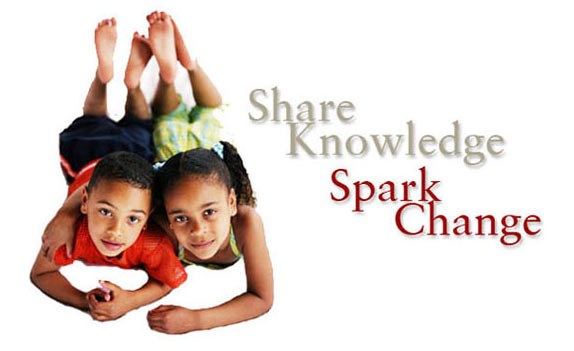
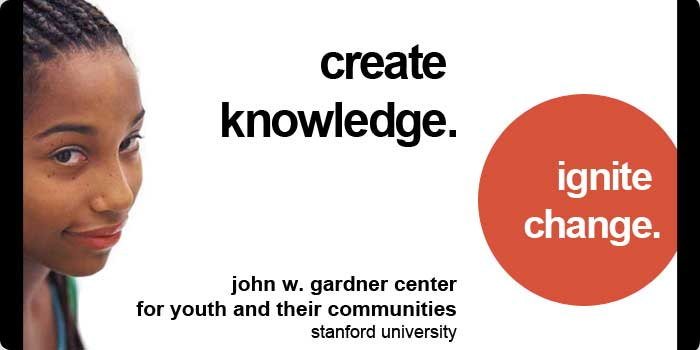
updated homepage graphic and text

diff --git a/content-index.html b/content-index.html
@@ -2,16 +2,18 @@
         <table>
             <tr >
                 <td colspan="2" rowspan="2"><div id="left_content"><img  src="images/main.jpg"><br /></div></td>
-                <td id="cellaligntop"><div id="right_content"><img  src="images/spotlight.gif"><br /><img  src="images/clipart_meeting.jpg">
-                    <br />there is a highlighted story here</div>
+                <td id="cellaligntop"><div id="right_content"><img  src="images/spotlight.gif"><br /><img  src="images/homepage_highlight3.jpg">
+                    <br /><p class="alignleft">JGC Partner Oakland Kids First Receives $25,000 Grant from Stanford Undergraduates</p><br><br>
+
+<p class="alignright"><a href="">Learn More >></a></p></div>
             </tr>
             <tr>
                 <td ><div id="right_content">
-                <img src="images/support_jgc.gif" ></div>
+                <p align="center"><img src="images/support_jgc.gif" ></p></div>
             </tr> 
             <tr>
-                <td><div id="calloutbox"><img  src="images/clipart_kids.jpg">this is the #1 call out box</div></td>
-                <td><div id="calloutbox"><img  src="images/clipart_kids.jpg">this is the #1 call out box</div></td>
+                <td><div id="calloutbox"><img  class="alignleft" src="images/homepage_highlight1.jpg">New Findings Link Chronic Absenteeism to School Achievement <br><br><p class="alignright"><a href="">more >></a></p><br style="clear: both;" /></div></td>
+                <td><div id="calloutbox"><img  class="alignleft" src="images/homepage_highlight2.jpg">Organized play and recess can benefit the entire school experience<br><br><p class="alignright"><a href="">more >></a></p><br style="clear: both;" /></div></td>
                 <td  ><div id="right_content"><img  src="images/jwg.gif"></div></td>
             </tr>
         </table>

diff --git a/css/style.css b/css/style.css
@@ -73,7 +73,7 @@ h3 {
    	height: 70px;
 	margin: 0; 
 	padding:0;
-	background: #a4001d url(../images/logo_header.gif) no-repeat left;	
+	background: #af0e37 url(../images/logo_header.gif) no-repeat left;	
 	-moz-border-radius-bottomright: 10px;
 	-moz-border-radius-bottomleft: 10px;
 	border-bottom-right-radius: 10px;
@@ -123,10 +123,10 @@ h3 {
 	width: 200px;
 	padding: 0px 10px;
 	float: right;
-	font-size:12px;
+	font-size:11px;
 	font-family: "News Gothic";
 	font-weight:bold;
-	text-align: center;
+	text-align: left;
 	
 }	
 
@@ -154,6 +154,8 @@ h3 {
 	font-weight:bold;
 	vertical-align:text-top;
 }
+#calloutbox img { padding: 0 10px 0 0; }
+
 table, tr, td
 	{
 	width: 100%;
